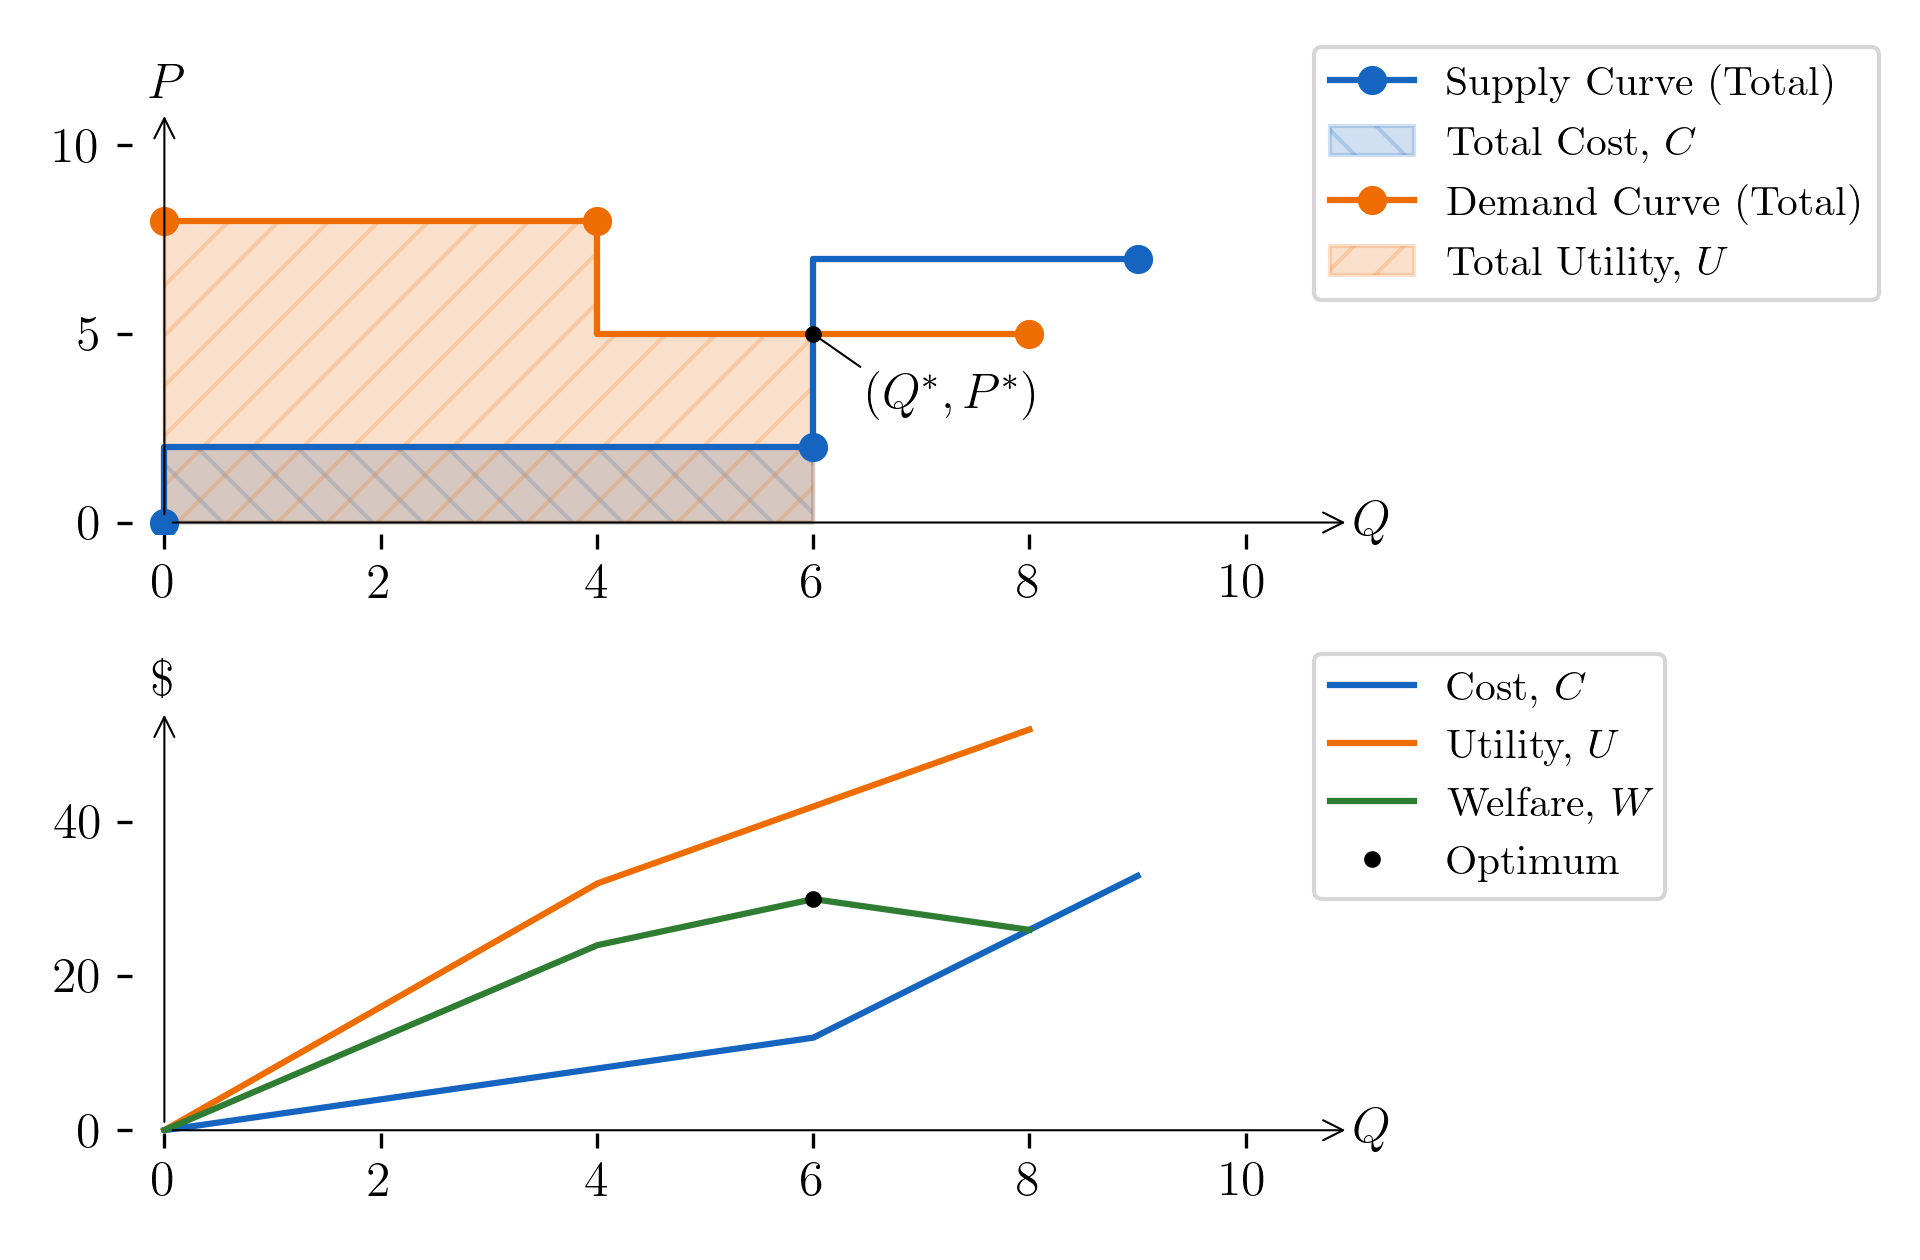
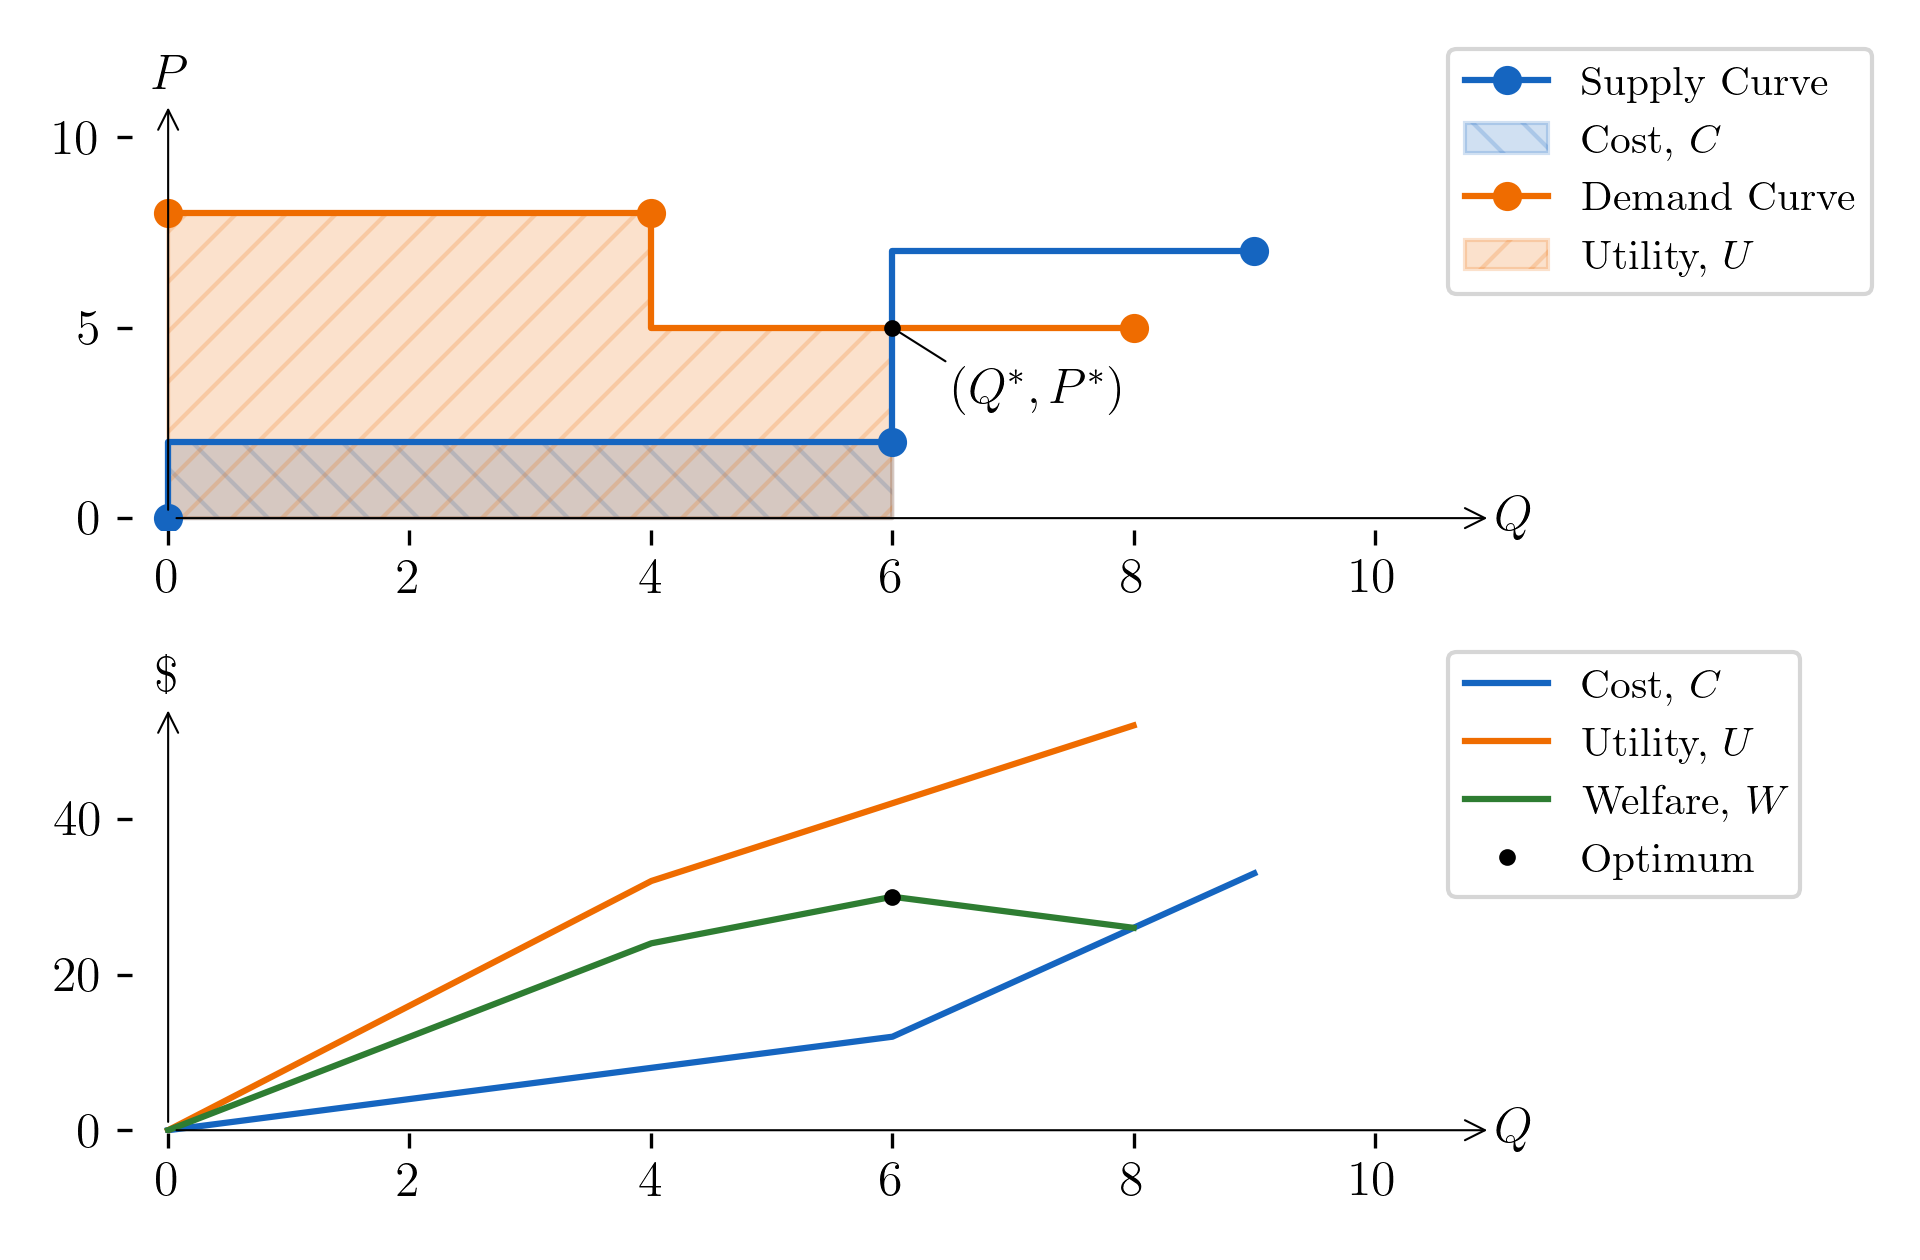
remove "(Total)" supply/demand curve suffix if only one individual producer/consumer

diff --git a/src/supply_demand.py b/src/supply_demand.py
@@ -124,9 +124,13 @@ class Curve:
         [stepped] = {c.stepped for c in curves}
         return curve_type(
             points,
-            name=(curve.name if mask else f"{curve_type.name} (Total)"),
+            name=(
+                curve.name if mask or len(curves) == 1 else f"{curve_type.name} (Total)"
+            ),
             integral_name=(
-                curve.integral_name if mask else f"Total {curve_type.integral_name}"
+                curve.integral_name
+                if mask or len(curves) == 1
+                else f"Total {curve_type.integral_name}"
             ),
             integral_symbol=(
                 curve.integral_symbol if mask else curve_type.integral_symbol
